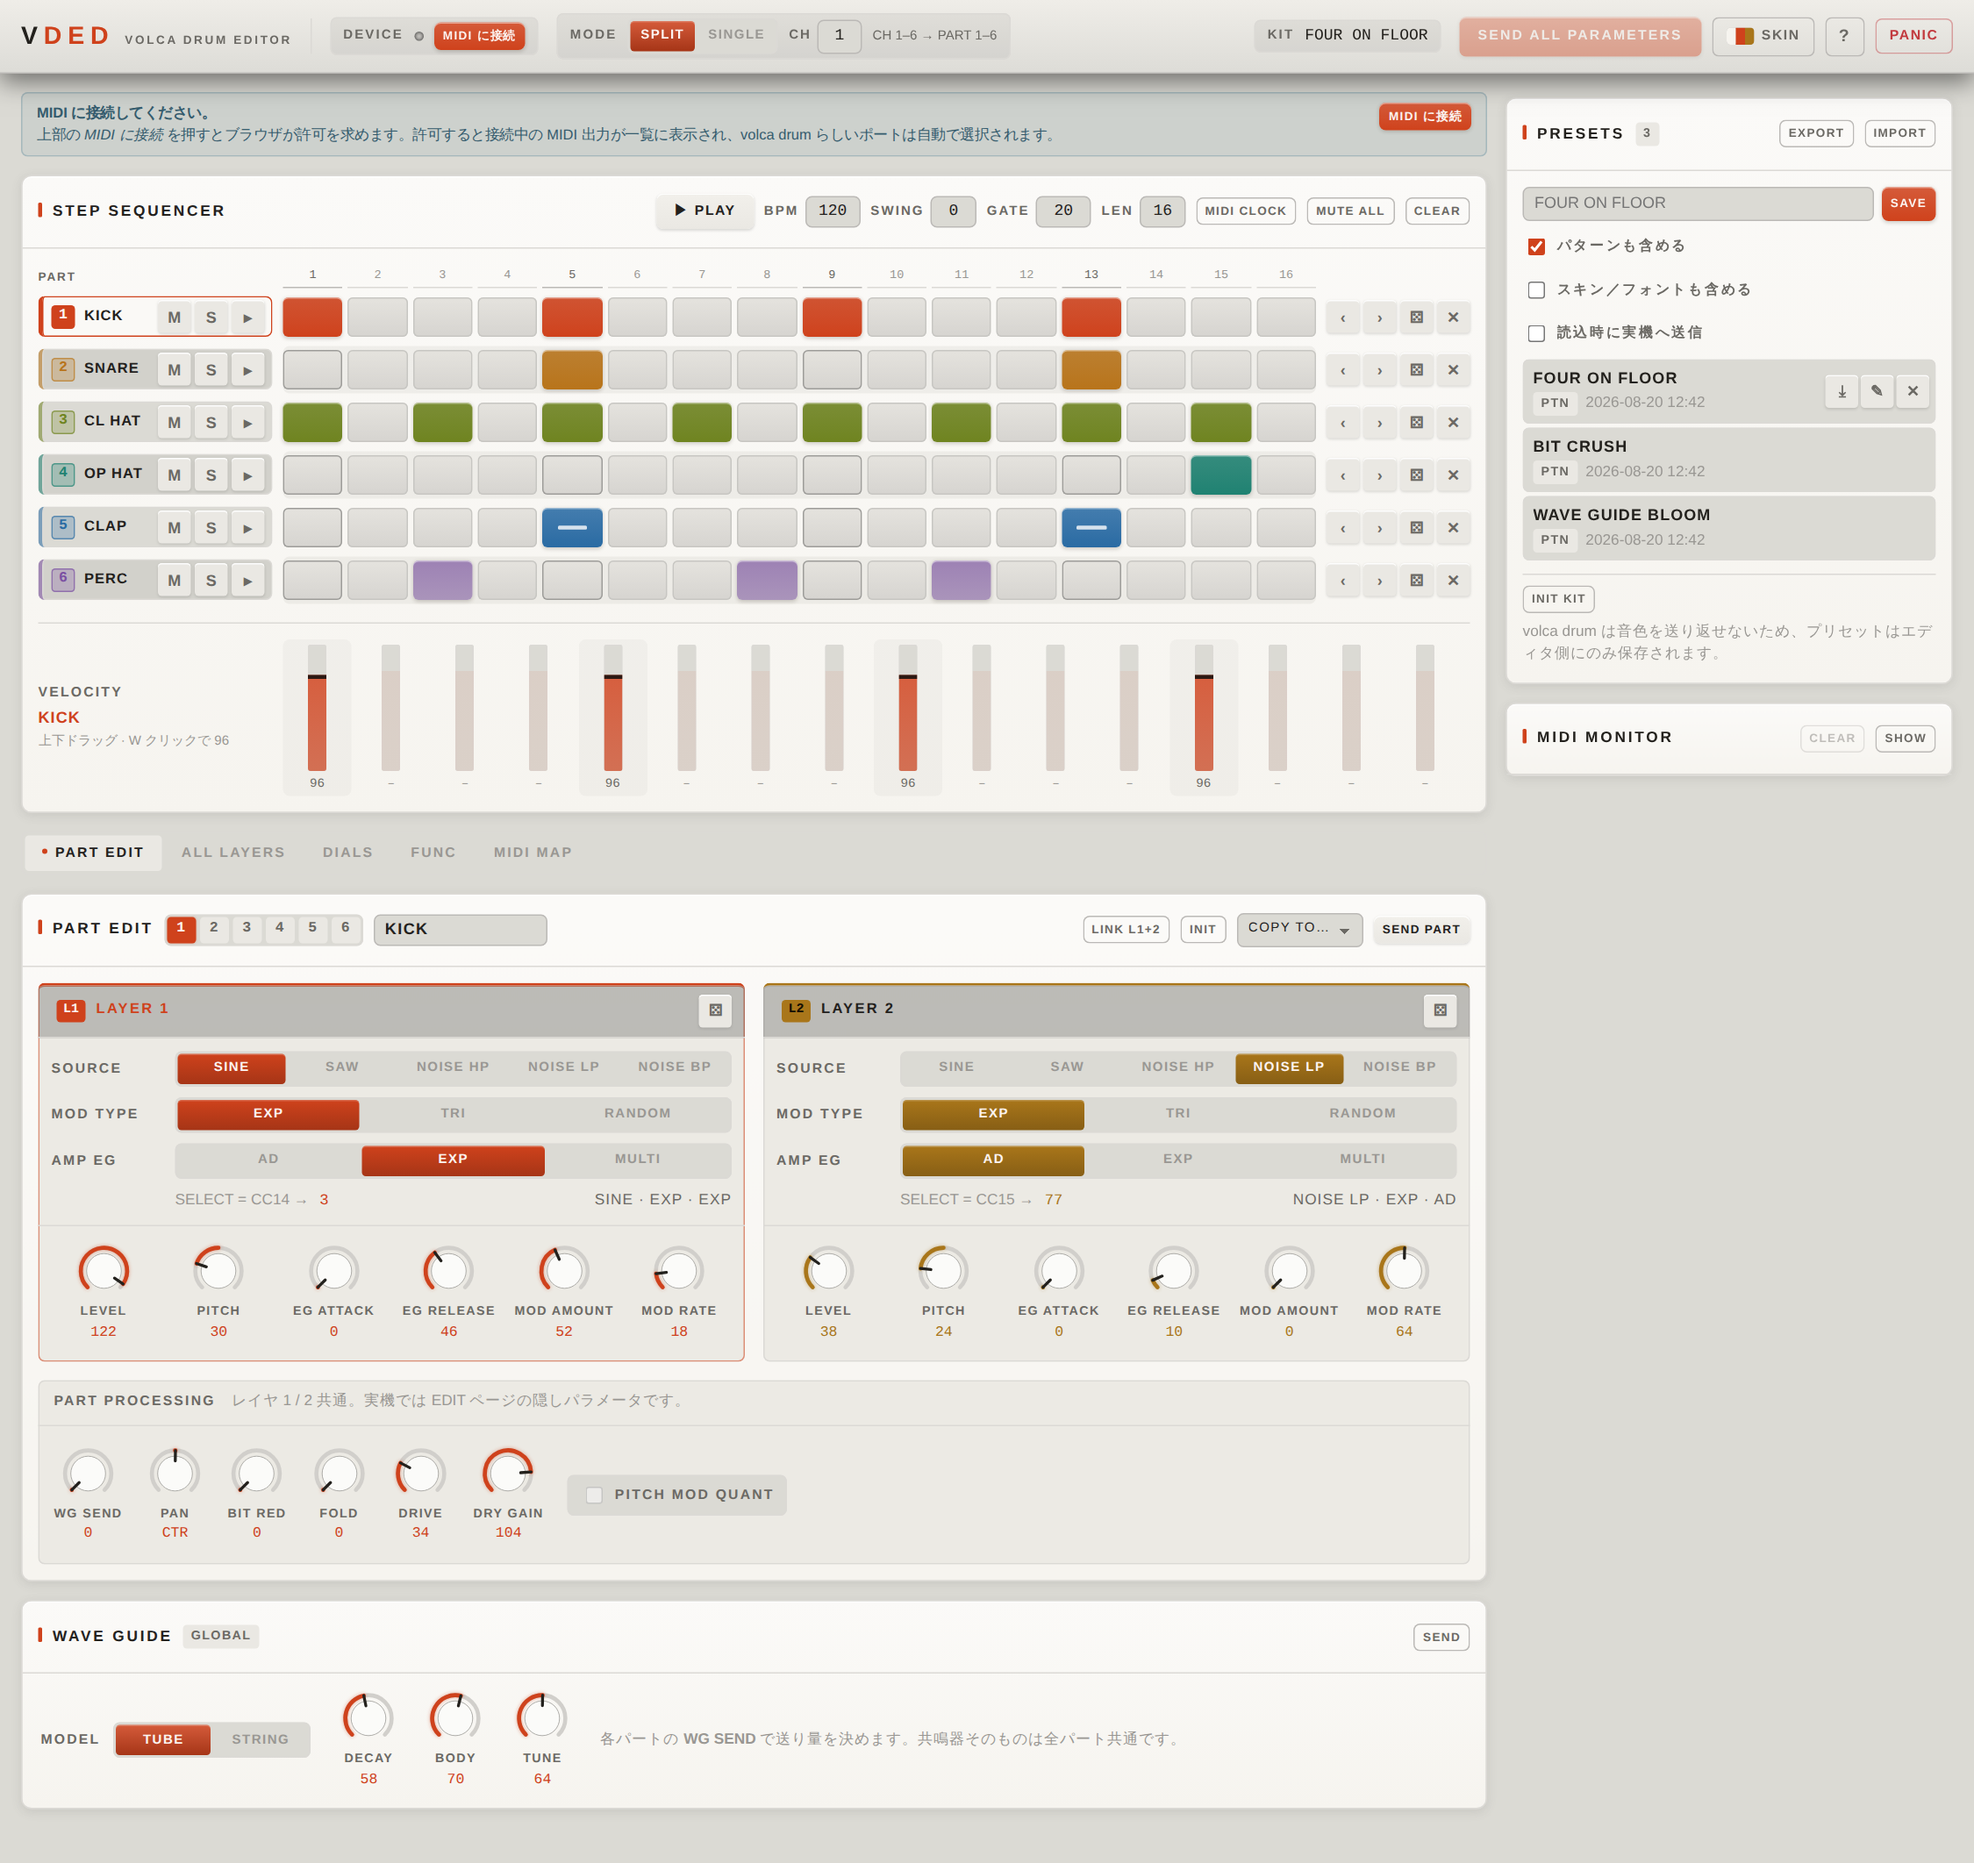
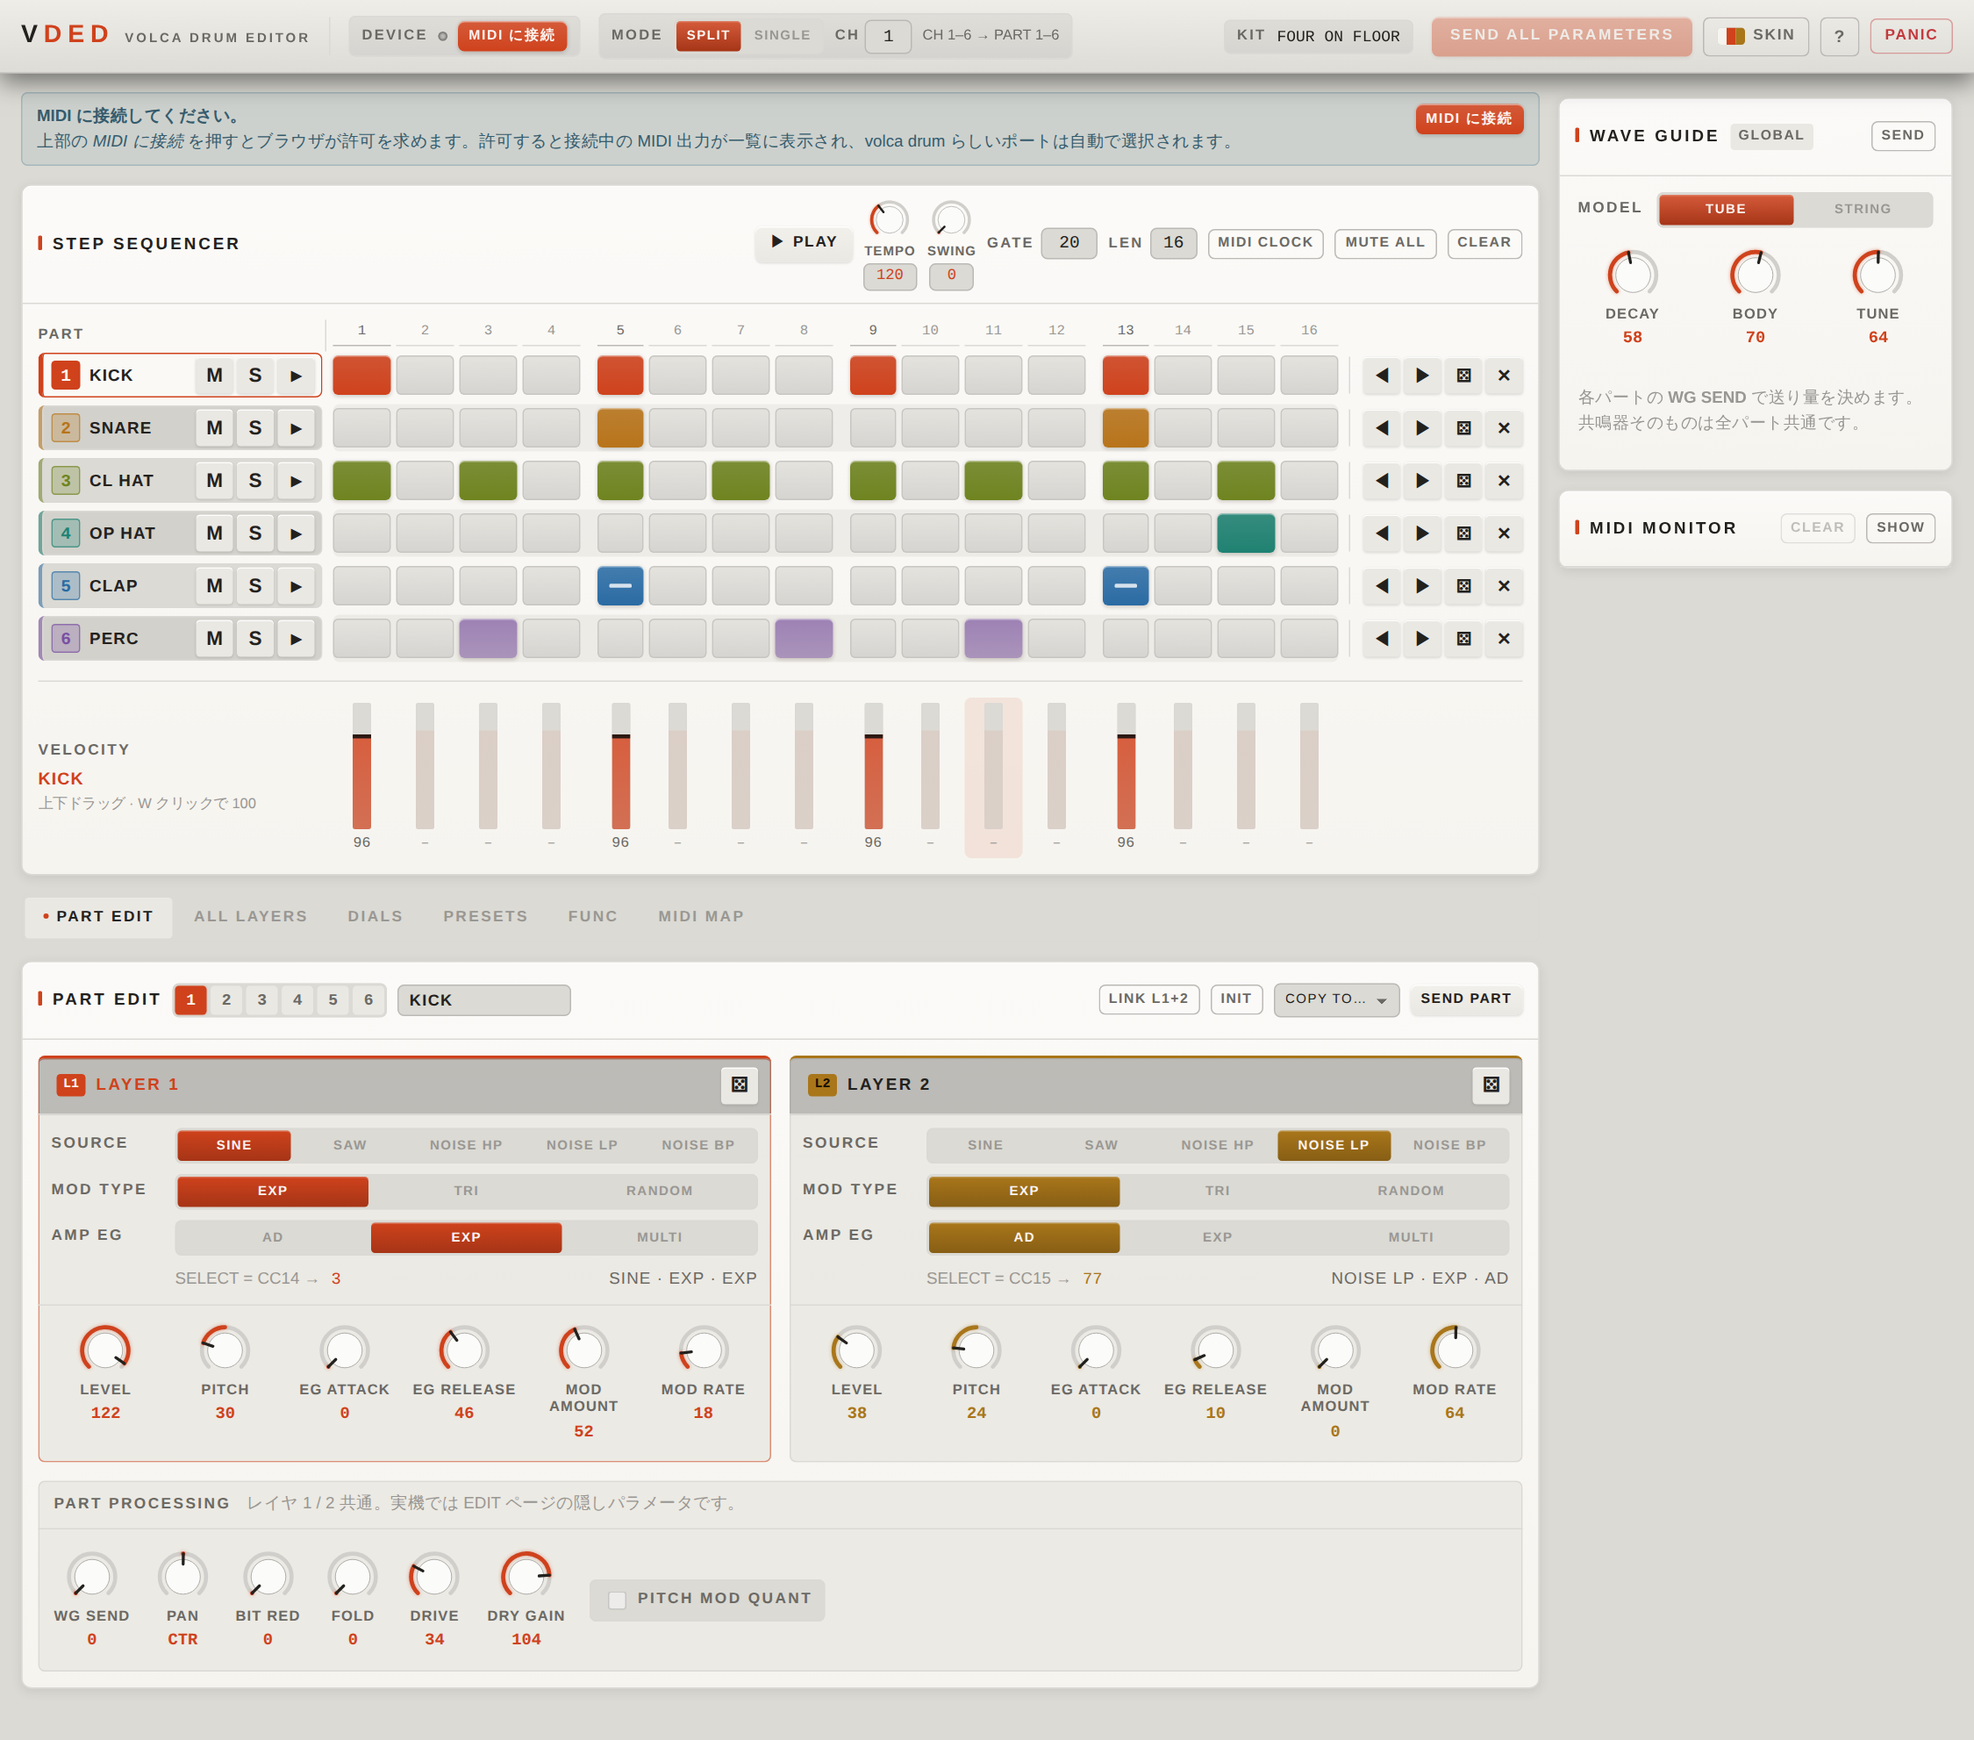
docs: README for the tab/rail rebalance and the reworked sequencer chrome
Also opens the palette editor when Custom is picked — selecting it on its own
looked like nothing had happened, since the stored seed starts as a copy of
the active skin.

diff --git a/src/components/AppearanceMenu.tsx b/src/components/AppearanceMenu.tsx
@@ -123,7 +123,12 @@ export function AppearanceMenu() {
                 type="button"
                 className="theme-card__pick"
                 aria-pressed={appearance.theme === 'custom'}
-                onClick={() => update({ theme: 'custom' })}
+                onClick={() => {
+                  // Selecting Custom on its own would look like nothing
+                  // happened, so open the editor with it.
+                  update({ theme: 'custom' })
+                  setEditing(true)
+                }}
               >
                 <span className="theme-card__swatch" aria-hidden="true">
                   <i style={{ background: appearance.custom.panel }} />
